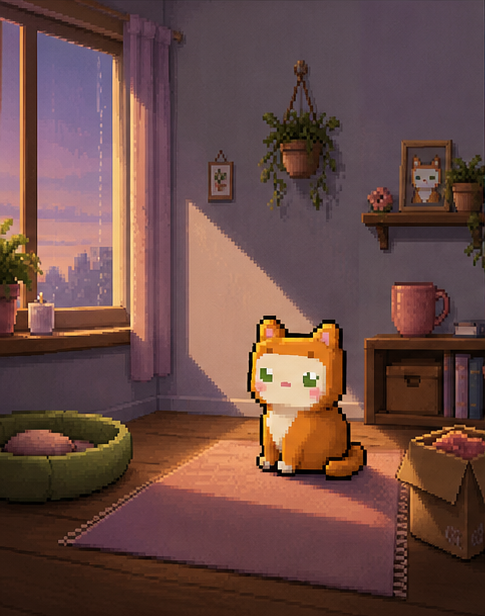
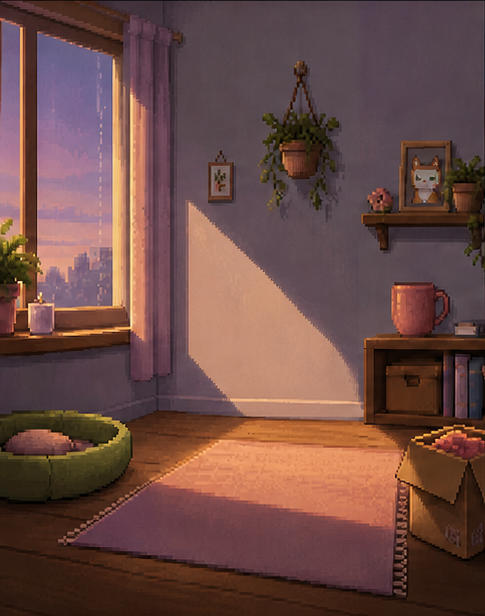
feat: animate Mrrp above the generated room scenes

diff --git a/packages/web/src/Cat.tsx b/packages/web/src/Cat.tsx
@@ -180,6 +180,8 @@ const GENERATED_ROOMS: Record<LightPhase, string> = {
 export const generatedRoomFor = (phase: LightPhase, raining = false): string =>
   raining ? "/art/room-rain-v1.png" : GENERATED_ROOMS[phase];
 
+export const generatedCatFor = (pose: Pose): string => `/art/cat/${pose}.png`;
+
 /*
  * Closed eyes are authored as lines, not as recolored open-eye blocks.
  *
@@ -312,6 +314,7 @@ export function Cat({
 }) {
   const ref = useRef<HTMLCanvasElement>(null);
   const roomImageRef = useRef<HTMLImageElement>(null);
+  const catImageRef = useRef<HTMLImageElement>(null);
   const lookRef = useRef(look);
   const clockRef = useRef(clock);
   const moodRef = useRef(mood);
@@ -2041,6 +2044,15 @@ export function Cat({
                     : (sc.pose ?? (sc.atDoor ? "stand" : posed ? "sit" : "loaf"));
       const sp = POSES[pose]!;
 
+      // The generated cat is the visible character layer. The legacy sprite still runs invisibly
+      // below it for exact hit geometry while interactions migrate to generated overlays.
+      if (catImageRef.current) {
+        const generatedCat = generatedCatFor(pose);
+        if (!catImageRef.current.src.endsWith(generatedCat)) catImageRef.current.src = generatedCat;
+        catImageRef.current.style.left = `${((kx - cam) / VW) * 100}%`;
+        catImageRef.current.style.bottom = settledInBed ? "1%" : "6%";
+      }
+
       const breathe = reduce || pose !== "loaf" ? 0 : Math.round(Math.sin(t / 1100));
       const hop =
         Math.round(bounce.current * 3) +
@@ -2655,6 +2667,9 @@ export function Cat({
     };
   }, []);
 
+  const initialScene = sceneFor(clock, Date.now(), mood, together);
+  const initialPose = initialScene.pose ?? (initialScene.atDoor ? "stand" : initialScene.sleepy > 0.55 ? "loaf" : "sit");
+
   return (
     <div className="generated-room" style={{ position: "relative", width: "100%", height: "100%" }}>
       <img
@@ -2666,6 +2681,19 @@ export function Cat({
         style={{
           position: "absolute", inset: 0, width: "100%", height: "100%",
           objectFit: "cover", objectPosition: "center", imageRendering: "pixelated",
+        }}
+      />
+      <img
+        ref={catImageRef}
+        src={generatedCatFor(initialPose)}
+        alt=""
+        aria-hidden="true"
+        draggable={false}
+        style={{
+          position: "absolute", left: `${initialScene.catX * 100}%`, bottom: "6%",
+          width: "43%", height: "auto", transform: "translateX(-50%)",
+          imageRendering: "pixelated", pointerEvents: "none",
+          transition: "left .45s var(--ease-spring), bottom .3s ease",
         }}
       />
       <canvas

diff --git a/packages/web/src/generatedRooms.test.ts b/packages/web/src/generatedRooms.test.ts
@@ -1,6 +1,7 @@
 import { describe, expect, it } from "vitest";
-import { generatedRoomFor } from "./Cat.js";
+import { generatedCatFor, generatedRoomFor } from "./Cat.js";
 import type { LightPhase } from "./hours.js";
+import type { Pose } from "./sprites.js";
 
 describe("generated runtime room states", () => {
   it("has a dedicated image for every authored lighting chapter", () => {
@@ -16,5 +17,14 @@ describe("generated runtime room states", () => {
 
   it("lets rain temporarily outrank the clock", () => {
     expect(generatedRoomFor("night", true)).toBe("/art/room-rain-v1.png");
+  });
+
+  it("maps every authored pose to a generated transparent sprite", () => {
+    const poses: Pose[] = ["loaf", "sit", "stand", "play", "perk", "walk", "stretch", "pounce", "peek"];
+    expect(poses.map(generatedCatFor)).toEqual([
+      "/art/cat/loaf.png", "/art/cat/sit.png", "/art/cat/stand.png",
+      "/art/cat/play.png", "/art/cat/perk.png", "/art/cat/walk.png",
+      "/art/cat/stretch.png", "/art/cat/pounce.png", "/art/cat/peek.png",
+    ]);
   });
 });

diff --git a/docs/art/README.md b/docs/art/README.md
@@ -67,6 +67,23 @@ Prompt:
 > No anatomy drift, extra limbs or tails, mixed pixel sizes, antialiasing, gradients, shadows,
 > scenery, text, watermark, costumes, or accessories.
 
+## Runtime cat pose sheet v1
+
+File: `cat-runtime-sheet-v1.png`
+
+Role: transparent generated runtime overlay containing the nine locked poses from the two approved
+model sheets. Individual cells are bundled under `packages/web/public/art/cat/`.
+
+Generated with the built-in image generation model using both approved cat sheets as identity and
+pose references, followed by a background-extraction edit. The extracted PNG was verified to contain
+a real alpha channel before being added to the project. The source request preserved the shared head,
+ears, eyes, muzzle, cream markings, outline weight, limbs, tail, palette, and uniform pixel grid while
+arranging loaf, sit, stand, play, perk, walk, stretch, pounce, and box-peek in a 3×3 sheet.
+
+The four lighting-study runtime crops, evening image, and rain image were also edited to remove their
+baked cat and reconstruct the rug and floor beneath it. The generated pose sheet is now the only
+visible cat layer; the transparent Canvas continues to provide interaction geometry during migration.
+
 ## Room lighting study v1
 
 File: `room-lighting-study-v1.png`
